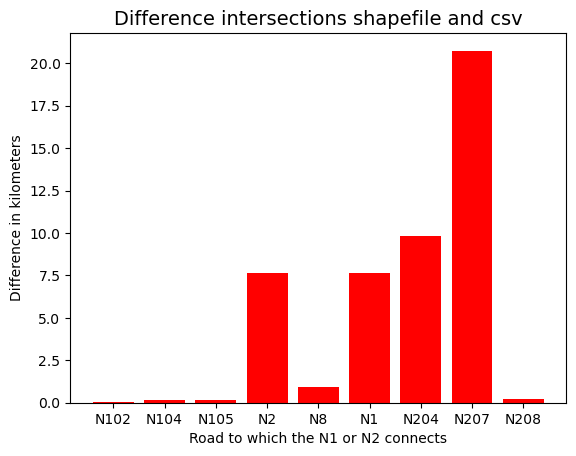
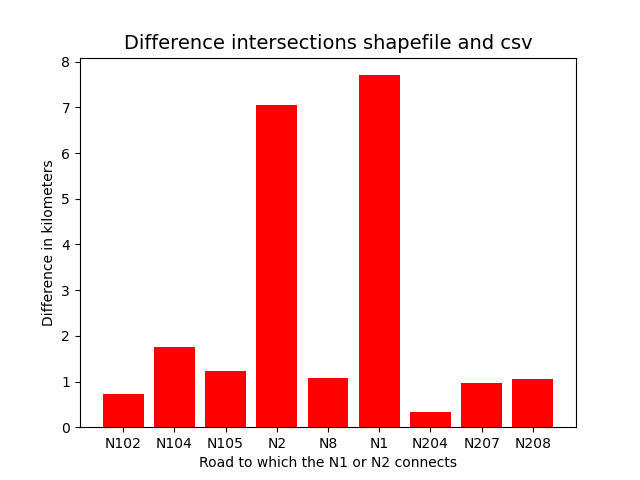
Roelof_sad

diff --git a/model/Bonus_assigment.py b/model/Bonus_assigment.py
@@ -194,7 +194,7 @@ plt.savefig(main_folder_path + "/img/bonus_pair.png")
 plt.show()
 
 # Creates a bar plot
-plt.bar(bar_index, dict_length.values(), color="red")
+plt.bar(dict_length.keys(), dict_length.values(), color="red")
 # Create correct axis labels and title
 plt.xlabel("Road to which the N1 or N2 connects")
 plt.ylabel("Difference in kilometers")
